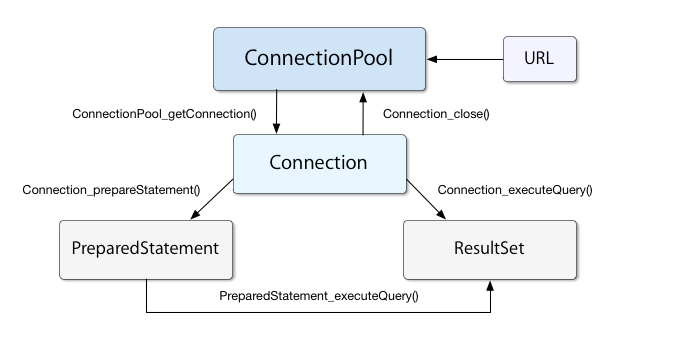
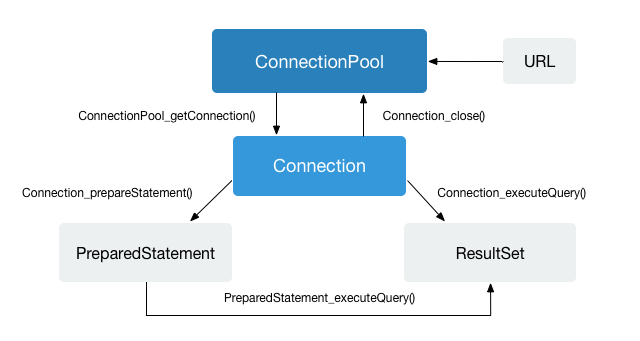
Documentation

diff --git a/doc/api-docs/libzdb.css b/doc/api-docs/libzdb.css
@@ -8,7 +8,7 @@ h2.groupheader {font-size:26px; line-height:28px;color:#286796;}
 h2.desc {font-weight:100; margin-top:1em;}
 div.groupheader { font-weight:600; font-size:18px;color: rgb(51, 51, 51);}
 h3 {font-size:20px;color: rgb(51, 51, 51);}
-div.header { background-image:none; background-color: #3b96d7; color:white;}
+div.header { background-image:none; background-color: #3498db; color:white;}
 div.title {text-align:center;font-size: 28px; font-weight:100;}
 .summary {display:none;}
 dl.section {border:none;}
@@ -23,13 +23,21 @@ dl.section {border:none;}
 pre {white-space: pre-wrap;padding-left:1em;}
 .textinfo {color: #428bca;}
 .textnote {color: #a94442;}
-p > code {padding-left:1em;}
 a.back {
-    font-size:48px; 
     font-size: 28px;
     text-decoration:none;
     color:white;
-    position:absolute;
-    top: 20px;
-    left: 20px;
+    position:fixed;
+    top: 10px;
+    right:20px;
+    padding: 10px 20px;
+    background: rgba(59,150,215, 0.4) no-repeat center;
+    cursor:pointer;
+    transition: all 0.25s ease;
+    z-index:20;
+}
+a.back:hover {
+    padding-left:15px;
+    padding-right:25px;
+    background-color:#2980b9;
 }

diff --git a/src/db/ConnectionPool.h b/src/db/ConnectionPool.h
@@ -74,9 +74,9 @@
  * connection on the standard URL format. The format of the connection URL 
  * is defined as:
  *
- * <code>
+ * <pre>
  * database://[user:password@][host][:port]/database[?propertyName1][=propertyValue1][&propertyName2][=propertyValue2]...
- * </code>
+ * </pre>
  *
  * The property names <code>user</code> and <code>password</code> are always
  * recognized and specify how to login to the database. Other properties 
@@ -89,17 +89,17 @@
  * Here is an example on how to connect to a <a href="http://www.mysql.org/">
  * MySQL</a> database server:
  *
- * <code>
- * mysql://localhost:3306/test?user=root&password=swordfish<br/>
- * </code>
+ * <pre>
+ * mysql://localhost:3306/test?user=root&password=swordfish
+ * </pre>
  *
  * In this case the username, <code>root</code> and password, <code>swordfish
  * </code> are specified as properties to the URL. An alternative is to 
  * use the auth-part of the URL to specify authentication information:
  *
- * <code>
+ * <pre>
  * mysql://root:swordfish\@localhost:3306/test
- * </code>
+ * </pre>
  *
  * See <a href="mysqloptions.html">mysql options</a> for all properties that
  * can be set for a mysql connection URL.
@@ -121,26 +121,26 @@
  * An URL for 
  * connecting to a SQLite database might look like:
  *
- * <code>
+ * <pre>
  * sqlite:///var/sqlite/test.db?synchronous=normal&heap_limit=8000&foreign_keys=on
- * </code>
+ * </pre>
  *
  * <h4>PostgreSQL:</h4>
  *
  * The URL for connecting to a <a href="http://www.postgresql.org/">
  * PostgreSQL</a> database server might look like:
  *
- * <code>
- * postgresql://localhost:5432/test?user=root&password=swordfish<br/>
- * </code>
+ * <pre>
+ * postgresql://localhost:5432/test?user=root&password=swordfish
+ * </pre>
  *
  * As with the MySQL URL, the username and password are specified as 
  * properties to the URL. Likewise, the auth-part of the URL can be used 
  * instead to specify the username and the password:
  *
- * <code>
+ * <pre>
  * postgresql://root:swordfish\@localhost/test?use-ssl=true
- * </code>
+ * </pre>
  *
  * In this example we have also omitted the port number to the server, in
  * which case the default port number, <i>5432</i>, for PostgreSQL is used. In
@@ -155,17 +155,17 @@
  * The URL for connecting to an <a href="http://www.oracle.com/">
  * Oracle</a> database server might look like:
  *
- * <code>
- * oracle://localhost:1521/test?user=scott&password=tiger<br/>
- * </code>
+ * <pre>
+ * oracle://localhost:1521/test?user=scott&password=tiger
+ * </pre>
  *
  * The auth-part of the URL can be used instead to specify the username 
  * and the password. In addition, you may specify a service name in the URL
  * instead if you have setup a <code>tnsnames.ora</code> configuration file.
  *
- * <code>
+ * <pre>
  * oracle:///servicename?user=scott&password=tiger
- * </code>
+ * </pre>
  *
  * See <a href="oracleoptions.html">oracle options</a> for all properties that
  * can be set for a oracle connection URL.

diff --git a/src/db/ResultSet.h b/src/db/ResultSet.h
@@ -489,7 +489,7 @@ time_t ResultSet_getTimestampByName(T R, const char *columnName);
  * which contains the year literal and <i>not years since 1900</i> which is the
  * convention. All other fields in the structure are set to zero. If the 
  * column type is DateTime or Timestamp all the fields mentioned above are 
- * set, if it is a Date or Time, only the relevant fields are set.
+ * set, if it is a Date or a Time, only the relevant fields are set.
  *
  * @param R A ResultSet object
  * @param columnIndex The first column is 1, the second is 2, ...
@@ -520,7 +520,7 @@ struct tm ResultSet_getDateTime(T R, int columnIndex);
  * which contains the year literal and <i>not years since 1900</i> which is the
  * convention. All other fields in the structure are set to zero. If the
  * column type is DateTime or Timestamp all the fields mentioned above are
- * set, if it is a Date or Time, only the relevant fields are set.
+ * set, if it is a Date or a Time, only the relevant fields are set.
  *
  * @param R A ResultSet object
  * @param columnName The SQL name of the column. <i>case-sensitive</i>

diff --git a/src/db/PreparedStatement.h b/src/db/PreparedStatement.h
@@ -220,9 +220,9 @@ void PreparedStatement_setBlob(T P, int parameterIndex, const void *x, int size)
  * is expected to be in the GMT timezone. For instance, a value returned by
  * time(3) which represents the system's notion of the current Greenwich time.
  * <i class="textinfo">SQLite</i> does not have temporal SQL data types per se
- * and using this method with SQLite will store the timestamp value as a numerical
- * type, as-is. This is usually what you want anyway, it is fast, compact and
- * unambiguous.
+ * and using this method with SQLite will store the timestamp value as a 
+ * numerical type, as-is. This is usually what you want; it is fast, compact 
+ * and unambiguous.
  * @param P A PreparedStatement object
  * @param parameterIndex The first parameter is 1, the second is 2,..
  * @param x The GMT timestamp value to set. E.g. a value returned by time(3)
